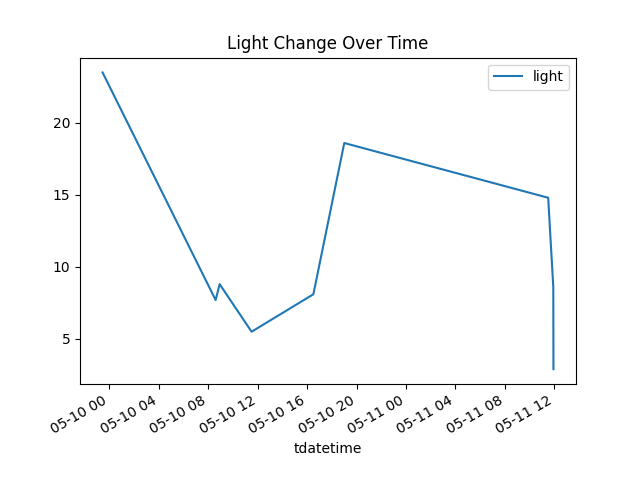
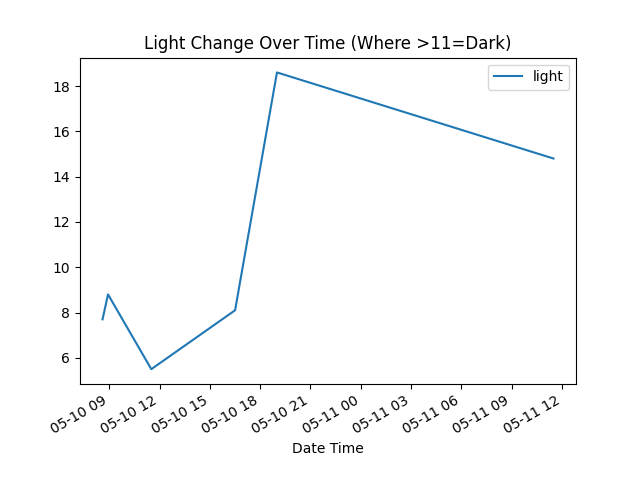
Adding more recent images from webpage and update to plotting.py to move files to be displayed on webpage

diff --git a/Plant Monitoring System/plotting.py b/Plant Monitoring System/plotting.py
@@ -1,5 +1,6 @@
 
 ## Plot
+import os
 import pandas as pd
 #import numpy as np
 from sqlalchemy import create_engine
@@ -11,24 +12,27 @@ df = pd.read_sql(query, mysqli)
 
 # Combine Date and Time Columns
 #df.apply(lambda r: pd.datetime.combine(r['tdate'],r['ttime']).time(),1)
-df['DateTime']=pd.to_datetime(df.pop('tdate'))+pd.to_timedelta(df.pop('ttime'))
+df['Date Time']=pd.to_datetime(df.pop('tdate'))+pd.to_timedelta(df.pop('ttime'))
 
-print(df.head())
+#print(df.head())
+
+# Get Path to HTML
+imgs_path = "/var/www/html/images"
 
 
 # Plots
-plot=df.plot.line(title="Moisture Change Over Time",x='DateTime',y='moisture')
+plot=df.plot.line(title="Moisture Change Over Time(Where >60=Dry)",x='Date Time',y='moisture')
 fig = plot.get_figure()
-fig.savefig("moisture.png")
+fig.savefig(os.path.join(imgs_path,"moisture.png"))
 
-plot = df.plot.line(title="Light Change Over Time",x='DateTime',y='light')
+plot = df.plot.line(title="Light Change Over Time (Where >11=Dark)",x='Date Time',y='light')
 fig = plot.get_figure()
-fig.savefig("light.png")
+fig.savefig(os.path.join(imgs_path,"light.png"))
 
-plot = df.plot.line(title="Temp Change Over Time",x='DateTime',y='temperature')
+plot = df.plot.line(title="Temp Change Over Time (Indoors)",x='Date Time',y='temperature')
 fig = plot.get_figure()
-fig.savefig("temperature.png")
+fig.savefig(os.path.join(imgs_path,"temperature.png"))
 
-plot = df.plot.line(title="Hum Change Over Time",x='DateTime',y='humidity')
+plot = df.plot.line(title="Hum Change Over Time(Indoors)",x='Date Time',y='humidity')
 fig = plot.get_figure()
-fig.savefig("humidity.png")
+fig.savefig(os.path.join(imgs_path,"humidity.png"))
